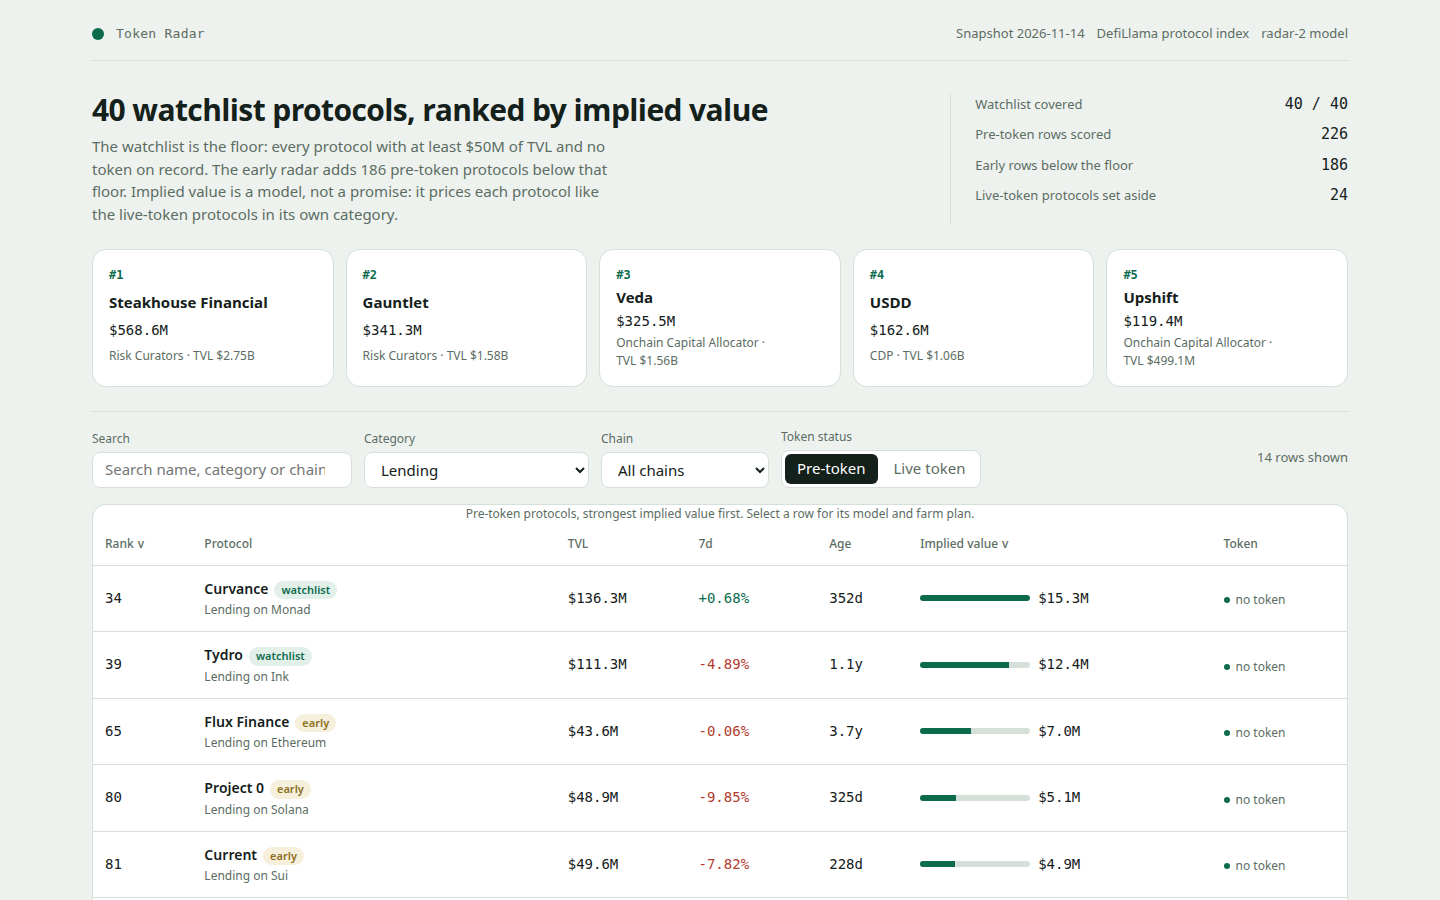
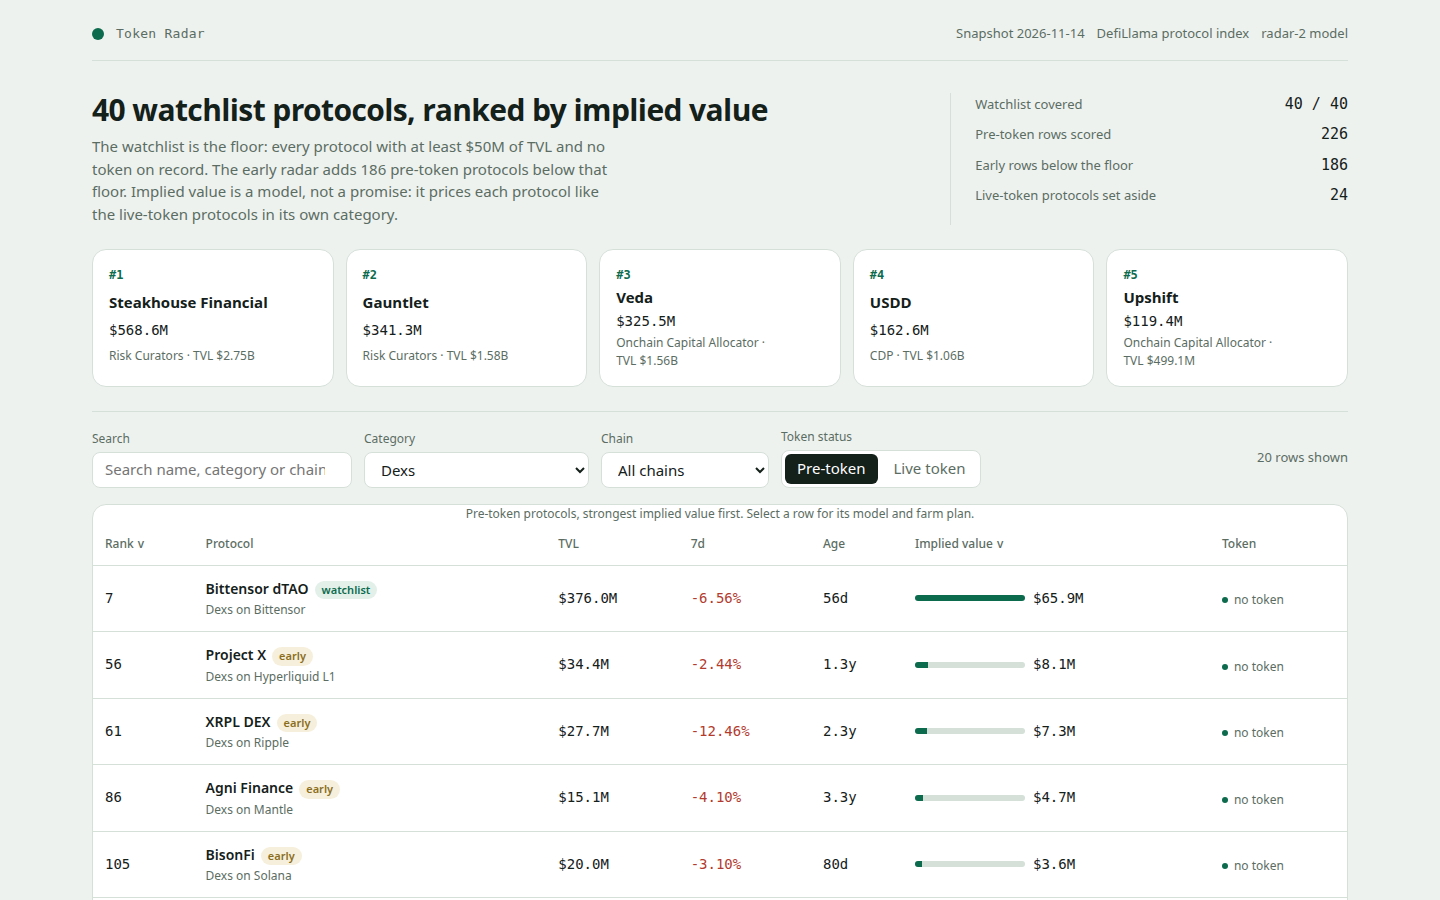
Add original methodology, score lab and movers panel; document design rationale
- README: Methodology section with worked example (Steakhouse Financial,
  arithmetic reproduces the board exactly) plus reproducing-the-board notes
- dashboard: Score Lab (pick a row, multiply its five factors live) and
  Movers panel (fastest risers/fallers by 7d TVL change, click to open detail)
- lib/model.ts: design rationale comments for the anchor, growth/maturity
  split, breadth cap, $1 floor and rankability rules
- screenshots retaken for the new dashboard; board.json and data.js unchanged

diff --git a/dashboard/app.js b/dashboard/app.js
@@ -7,7 +7,7 @@
   var DATA = window.RADAR;
   if (!DATA) return;
   var app = document.getElementById('board');
-  var state = { q: '', category: 'all', chain: 'all', tab: 'pre-token', sort: 'implied', dir: -1, selected: null };
+  var state = { q: '', category: 'all', chain: 'all', tab: 'pre-token', sort: 'implied', dir: -1, selected: null, scoreOpen: false, scoreSlug: null };
 
   var usd = new Intl.NumberFormat('en-US', { style: 'currency', currency: 'USD', maximumFractionDigits: 0 });
   function fmtUsd(n) {
@@ -367,6 +367,93 @@
     );
   }
 
+  // The score lab: a second, hands-on way to read the model. Pick any ranked protocol and the panel
+  // walks through its five factors one at a time, multiplying them in front of you, so the single
+  // implied-value number stops being a black box. Everything it shows comes from the row itself — the
+  // same rounded multipliers board.json carries — so the lab's product is the board's number.
+  function scoreFactorRow(label, detail, value) {
+    return el('div', { class: 'score-row' },
+      el('div', null, el('span', { text: label }), el('span', { class: 'sub', text: detail })),
+      el('b', { class: 'num', text: value })
+    );
+  }
+
+  function scoreLab() {
+    var toggle = el('button', {
+      type: 'button', class: 'score-toggle', 'aria-expanded': state.scoreOpen ? 'true' : 'false',
+      onclick: function () { state.scoreOpen = !state.scoreOpen; render(); }
+    }, state.scoreOpen ? 'Hide the score lab' : 'Open the score lab: multiply a row yourself');
+    var head = el('div', { class: 'score-head' },
+      el('h2', { text: 'Score lab: multiply a row yourself' }),
+      toggle
+    );
+    if (!state.scoreOpen) return el('section', { class: 'panel score' }, head);
+    var picked = DATA.rows.filter(function (r) { return r.slug === state.scoreSlug; })[0] || DATA.rows[0];
+    var select = el('select', { id: 'score-pick', 'aria-label': 'Pick a protocol to multiply' },
+      DATA.rows.map(function (r) {
+        return el('option', { value: r.slug, text: '#' + r.rank + ' ' + r.name, selected: r.slug === picked.slug ? 'selected' : null });
+      })
+    );
+    select.addEventListener('change', function () { state.scoreSlug = select.value; render(); });
+    var recomputed = impliedOf(picked);
+    var steps = el('div', { class: 'score-grid' },
+      scoreFactorRow('TVL', 'the size of the thing being priced', fmtUsd(picked.tvl_usd)),
+      scoreFactorRow('Category multiple', (picked.category || 'Other') + ' · ' + picked.comparables + ' live comparables' + (picked.comparables < 3 ? ' — borrows the global median' : ''), String(picked.category_multiple)),
+      scoreFactorRow('Growth multiplier', 'seven-day TVL change ' + fmtPct(picked.change_7d) + ', weighted 0.6', String(picked.growth_multiplier)),
+      scoreFactorRow('Maturity multiplier', 'listed ' + fmtAge(picked.age_days) + ' ago with no token on record', String(picked.maturity_multiplier)),
+      scoreFactorRow('Breadth multiplier', (picked.chains || []).length + ' chains, +2% per extra chain up to +10%', String(picked.breadth_multiplier)),
+      scoreFactorRow('Implied value', 'the board carries ' + fmtUsd(picked.implied_value_usd), fmtUsd(recomputed))
+    );
+    var notes = el('ul', { class: 'score-notes' },
+      el('li', { text: 'Category multiple is the only factor the protocol cannot move on its own — it is set by what the market pays its category.' }),
+      el('li', { text: 'Growth helps, but the 0.6 weight and the clamp keep one hot week from rewriting the score.' }),
+      el('li', { text: 'Maturity runs from 0.55 for a fresh listing to 1.00 after three years with no token.' }),
+      el('li', { text: 'Breadth adds 2% per extra chain and stops at five extra chains.' }),
+      el('li', { text: 'The floor: a row never prices below $1, so the board always ranks by a positive number.' })
+    );
+    var verdict = el('p', { class: 'score-verdict' },
+      recomputed === picked.implied_value_usd
+        ? 'The lab multiplies to ' + fmtUsd(recomputed) + ', exactly the number the board carries for ' + picked.name + '.'
+        : 'The lab multiplies to ' + fmtUsd(recomputed) + ', which differs from the board: the data beside this page would be stale.'
+    );
+    return el('section', { class: 'panel score' }, head,
+      el('p', { class: 'sub', text: 'One row, five factors, multiplied in front of you. The growth and maturity multipliers are rounded to four decimals, so the product lands exactly on the number the board carries.' }),
+      el('div', { class: 'field' }, el('label', { for: 'score-pick', text: 'Protocol' }), select),
+      steps,
+      notes,
+      verdict
+    );
+  }
+
+  // The movers: the week's fastest risers and fallers by seven-day TVL change. The board ranks by
+  // implied value, so a protocol can climb this list without climbing the board — momentum and size
+  // are different stories, and this panel tells the momentum one.
+  function moverRow(r) {
+    return el('li', {
+      tabindex: '0',
+      onclick: function () { openDetail(r.slug); },
+      onkeydown: function (e) { if (e.key === 'Enter' || e.key === ' ') { e.preventDefault(); openDetail(r.slug); } }
+    },
+      el('span', { class: 'num', text: '#' + r.rank }),
+      el('b', { text: r.name }),
+      el('span', { class: 'num ' + (r.change_7d >= 0 ? 'pos' : 'neg'), text: fmtPct(r.change_7d) })
+    );
+  }
+
+  function moversPanel() {
+    var withChange = DATA.rows.filter(function (r) { return r.change_7d !== null && isFinite(r.change_7d); });
+    var gainers = withChange.slice().sort(function (a, b) { return b.change_7d - a.change_7d; }).slice(0, 5);
+    var losers = withChange.slice().sort(function (a, b) { return a.change_7d - b.change_7d; }).slice(0, 5);
+    return el('section', { class: 'panel movers' },
+      el('h2', { text: 'Movers: the week in TVL' }),
+      el('p', { class: 'sub', text: 'The fastest risers and fallers by seven-day TVL change. Momentum is one factor of five — a protocol can top this list without topping the board. Select a mover to open its detail drawer.' }),
+      el('div', { class: 'movers-grid' },
+        el('div', null, el('h3', { text: 'Fastest risers' }), el('ol', { class: 'movers-list' }, gainers.map(moverRow))),
+        el('div', null, el('h3', { text: 'Fastest fallers' }), el('ol', { class: 'movers-list' }, losers.map(moverRow)))
+      )
+    );
+  }
+
   var dialog = el('dialog', { class: 'detail', id: 'detail', 'aria-labelledby': 'detail-title' });
   dialog.addEventListener('close', function () { state.selected = null; writeHash(); });
 
@@ -428,7 +515,11 @@
     shell.appendChild(top5());
     shell.appendChild(controls());
     shell.appendChild(state.tab === 'pre-token' ? boardTable() : liveTable());
-    if (state.tab === 'pre-token') shell.appendChild(modelPanel());
+    if (state.tab === 'pre-token') {
+      shell.appendChild(scoreLab());
+      shell.appendChild(moversPanel());
+      shell.appendChild(modelPanel());
+    }
     app.appendChild(shell);
     app.setAttribute('aria-busy', 'false');
     if (!dialog.isConnected) app.appendChild(dialog);

diff --git a/lib/model.ts b/lib/model.ts
@@ -190,7 +190,12 @@ export class SnapshotError extends Error {
 
 const DAY_MS = 86_400_000;
 
-/** The smallest implied value the model ever reports: a protocol never prices at zero or less. */
+/**
+ * The smallest implied value the model ever reports: a protocol never prices at zero or less.
+ * The floor is a ranking invariant, not a rounding nicety — the board orders rows by a positive
+ * integer, and a zero would tie every worthless row at the bottom while saying nothing about
+ * which of them is less worthless. One dollar keeps the order total and the arithmetic honest.
+ */
 const IMPLIED_MIN_USD = 1;
 
 /** The global multiple when the snapshot carries no live-token comparable at all. */
@@ -237,6 +242,12 @@ export function isComparable(p: SnapshotProtocol): boolean {
  * category. A category with at least `min_comparables` live protocols is priced at a blend of its own
  * median and the global median; a thinner category borrows the global median outright. Every multiple
  * is clamped, so a thin or wild category cannot set an absurd price.
+ *
+ * Why the median, and why per category: the market's verdict on a category is written in the prices
+ * of the protocols in it that already trade. A mean would let one outlier set the price; a median
+ * listens to the middle of the pack. And categories are priced apart because they sell different
+ * things — a lending market's dollar of TVL is not a bridge's dollar of TVL, and scoring them by
+ * one shared multiple would reward the category, not the protocol.
  */
 export function categoryMultiples(snapshot: Snapshot, model: ModelConstants = MODEL): { global: number; byCategory: Map<string, CategoryMultiple> } {
   const live = snapshot.protocols.filter(isComparable);
@@ -274,13 +285,26 @@ const round4 = (n: number): number => Math.round(n * 1e4) / 1e4;
  * single-chain protocol, plus `breadth_per_chain` per extra chain up to `breadth_max_chains` extra
  * chains, so the bonus tops out at 1 + breadth_per_chain x breadth_max_chains (1.10 under the
  * shipped constants). A protocol live on more chains reaches more farmers.
+ *
+ * Breadth is deliberately the weakest factor: it can add at most ten percent, while the multiple
+ * alone can move the price thirty-fold. That ordering is a choice — reach matters, but a protocol
+ * spread thin across twelve chains is not thirty times a focused one. The cap also stops a
+ * chain-count race from swamping the price the market actually sets.
  */
 export function breadthMultiplier(chains: string[], model: ModelConstants = MODEL): number {
   const extraChains = Math.min(Math.max(chains.length - 1, 0), model.breadth_max_chains);
   return round4(1 + model.breadth_per_chain * extraChains);
 }
 
-/** The four multipliers and the implied value one protocol gets under `model` and the market anchor. */
+/**
+ * The four multipliers and the implied value one protocol gets under `model` and the market anchor.
+ *
+ * Growth and maturity stay separate on purpose: they measure different things. Growth is momentum —
+ * what the last seven days did. Maturity is endurance — how long the protocol has kept running
+ * without a token. A young protocol can spike and an old one can stall; folding both into one
+ * number would hide which one moved the score. Keeping them apart also keeps the board readable:
+ * the dashboard can point at one factor and say why a row sits where it does.
+ */
 export function impliedValue(
   protocol: SnapshotProtocol,
   asOf: string,
@@ -306,7 +330,13 @@ export function impliedValue(
 /** DefiLlama's version-marker rule: a name ending in a release is a pool of another protocol. */
 const VERSIONED = /\s(V\d+(\.\d+)?|v\d+(\.\d+)?|\d+\.\d+)$/;
 
-/** Whether a protocol is one the board may rank: pre-token, not an exchange, not a versioned pool. */
+/**
+ * Whether a protocol is one the board may rank: pre-token, not an exchange, not a versioned pool.
+ * Exchanges are left out because their token is the business, not a launch to anticipate — scoring
+ * one would price the exchange against protocols it has nothing in common with. Versioned pools are
+ * left out because they are a slice of another protocol's TVL, and ranking the slice beside the
+ * whole would double-count the same locked value.
+ */
 export function isRankable(p: SnapshotProtocol): boolean {
   return isPreToken(p) && p.category !== 'CEX' && !VERSIONED.test(p.name);
 }
@@ -325,7 +355,13 @@ export interface BoardSummary {
 }
 
 /** The protocols the board ranks, strongest first, with ranks 1..n. The watchlist is the floor: every
- *  watchlist slug is ranked, and the early radar only adds rankable pre-token protocols below it. */
+ *  watchlist slug is ranked, and the early radar only adds rankable pre-token protocols below it.
+ *
+ * Coverage is a promise, not a preference: the watchlist is a floor, so every slug on it appears
+ * even if its TVL has slipped, and the early radar only ever adds rows below that floor. Nothing
+ * is dropped for looking weak — a weak watchlist row still ranks, at the rank its numbers earn.
+ * That is what makes the board auditable: anyone can take the snapshot, count the watchlist, and
+ * check that every one of those slugs is present before asking anything about the order. */
 export function buildBoard(snapshot: Snapshot, model: ModelConstants = MODEL): BoardRow[] {
   const anchor = categoryMultiples(snapshot, model);
   const index = bySlug(snapshot.protocols);
@@ -611,7 +647,13 @@ export function parseSnapshot(text: string): Snapshot {
   };
 }
 
-/** Why a board is not one the gate will take, or null: coverage, ranks, order, one shared implied value, and farm steps. */
+/**
+ * Why a board is not one the gate will take, or null: coverage, ranks, order, one shared implied
+ * value, and farm steps. The checks run from the most basic to the most specific — a board that
+ * misses a watchlist slug is refused before anyone looks at its numbers, because a ranking that
+ * silently drops rows is worse than a ranking that orders them badly. The shared-value check
+ * catches the degenerate case: if every row prices the same, the model has said nothing at all.
+ */
 export function boardIssue(board: BoardRow[], snapshot: Snapshot): string | null {
   const slugs = new Set(board.map((r) => r.slug));
   const missing = snapshot.watchlist.filter((s) => !slugs.has(s));

diff --git a/dashboard/app.css b/dashboard/app.css
@@ -156,11 +156,34 @@ tbody tr[data-selected="true"] { background: var(--accent-soft); }
 .steps b { display: block; font-weight: 500; }
 .cost { color: var(--muted); font-size: 12px; font-family: var(--font-num); }
 
+/* The score lab: one row multiplied in front of you. */
+.score { margin-top: var(--step-4); padding: var(--step-5); display: grid; gap: var(--step-3); }
+.score-head { display: flex; align-items: baseline; justify-content: space-between; gap: var(--step-4); flex-wrap: wrap; }
+.score-toggle { min-height: 36px; padding: 0 var(--step-4); border: 1px solid var(--border); border-radius: var(--radius-control); background: var(--surface); }
+.score-toggle:hover { border-color: var(--accent); }
+.score-grid { display: grid; gap: var(--step-2); border-top: 1px solid var(--border); padding-top: var(--step-3); }
+.score-row { display: flex; align-items: baseline; justify-content: space-between; gap: var(--step-4); }
+.score-row > div { display: grid; gap: 2px; min-width: 0; }
+.score-row .sub { overflow-wrap: anywhere; }
+.score-notes { margin: 0; padding-left: var(--step-5); display: grid; gap: var(--step-1); color: var(--muted); font-size: 13px; }
+.score-verdict { font-weight: 600; }
+.score select { min-height: 36px; padding: 0 var(--step-3); border: 1px solid var(--border); border-radius: var(--radius-control); background: var(--surface); }
+
+/* The movers: the week's fastest risers and fallers. */
+.movers { margin-top: var(--step-4); padding: var(--step-5); display: grid; gap: var(--step-3); }
+.movers-grid { display: grid; grid-template-columns: 1fr 1fr; gap: var(--step-5); }
+.movers-list { margin: 0; padding-left: var(--step-5); display: grid; gap: var(--step-2); }
+.movers-list li { display: flex; align-items: baseline; gap: var(--step-3); cursor: pointer; border-radius: var(--radius-control); }
+.movers-list li:hover { background: var(--accent-soft); }
+.movers-list li b { font-weight: 600; overflow-wrap: anywhere; }
+.movers-list li .num:last-child { margin-left: auto; }
+
 @media (max-width: 900px) {
   .shell { padding: var(--step-4); }
   .lede { grid-template-columns: 1fr; gap: var(--step-4); }
   .facts { border-left: 0; border-top: 1px solid var(--border); padding-left: 0; padding-top: var(--step-4); }
   .top5 { grid-template-columns: repeat(2, minmax(0, 1fr)); }
+  .movers-grid { grid-template-columns: 1fr; }
   .field input { min-width: 0; width: 100%; }
 }
 @media (prefers-reduced-motion: reduce) {

diff --git a/README.md b/README.md
@@ -19,6 +19,99 @@ Every protocol on the snapshot's watchlist (TVL ≥ $50M, no token on record in 
 
 Each row also carries a 7-step farm plan derived from the protocol's own record (category, main chain, TVL, age): a fresh wallet, the bridge onto its chain with chain-aware gas costs, the category's action, a weekly qualifying action, a hold window, a claim check, and a farm log. Live-token protocols are set aside with their market caps shown — the market's own value, not a model.
 
+## Methodology
+
+The board is a yardstick, not a forecast. It answers one question: if this protocol launched a
+token tomorrow and the market priced it the way it already prices the live-token protocols in its
+own category, what would that token be worth? Nothing in the score says a token is coming, when
+it would arrive, or what it would trade at on day one. It is a way to compare 226 protocols on
+the same footing, using only the snapshot's own figures.
+
+### The five inputs
+
+Every row is the product of five numbers, all taken from the snapshot:
+
+- **TVL** — the protocol's total value locked, in dollars. This is the size of the thing being priced.
+- **Category multiple** — what the market already pays per dollar of TVL for protocols in the
+  same category: the median market-cap/TVL of the category's live-token protocols. A category
+  with at least three live comparables is priced at a 75/25 blend of its own median and the
+  global median; a thinner category borrows the global median outright. Every multiple is
+  clamped to 0.05–1.50, so no thin or wild category can set an absurd price.
+- **Growth multiplier** — the protocol's seven-day TVL change, clamped to −50…+150% and weighted
+  0.6, so a hot week lifts the score but cannot double it on its own.
+- **Maturity multiplier** — how long the protocol has run with no token on record, from 0.55 for
+  a brand-new listing to 1.00 after three years. Time in the wild without launching is the
+  closest thing a pre-token protocol has to a track record.
+- **Breadth multiplier** — +2% per extra chain, up to +10%. Each additional chain reaches more
+  farmers, but the tenth chain adds far less than the second, so the bonus is capped.
+
+`implied = round(TVL × category_multiple × growth_multiplier × maturity_multiplier × breadth_multiplier)`,
+with a floor of $1: no ranked row ever prices at zero. Every multiplier is rounded to four
+decimals before it multiplies, so anyone can reproduce the board's number exactly from the
+figures the dashboard prints.
+
+### Why the anchor is the category, not the market
+
+A lending protocol and a bridge do not sell the same thing, so they should not be priced by the
+same yardstick. The market already tells us what it pays per dollar of TVL in each category —
+the live-token protocols are that verdict, written in real money. Anchoring to the category
+median keeps the comparison honest: a protocol is measured against its own kind, not against
+the hottest category of the month. The 75/25 blend with the global median is a hedge against
+thin categories: when only a handful of protocols trade in a category, their median is noisy,
+and the global median steadies it. The clamp exists for the same reason — no thin or wild
+category may set an absurd price.
+
+### A worked example: Steakhouse Financial
+
+Steakhouse Financial sits at rank 1 with an implied value of $568,603,850. Its category, Risk
+Curators, has only one live-token comparable, so it borrows the global median of 0.246. Its
+seven-day TVL change is −2.1935%, giving a growth multiplier of 1 + (−2.1935 / 100) × 0.6 =
+0.9868. It has been listed for 543 days, so its maturity multiplier is 0.55 + (543 / 1095) ×
+0.45 = 0.7732. It runs on 11 chains, so its breadth multiplier is 1 + 0.02 × min(10, 5) = 1.10.
+Putting it together:
+
+`2,753,981,495 × 0.246 × 0.9868 × 0.7732 × 1.10 = 568,603,850`
+
+The same arithmetic reproduces every row on the board. The next two rows are priced by the same
+global anchor — Gauntlet at $341,286,097 and Veda at $325,527,040 — because their categories are
+thin too. That is the model's honest admission: where a category has too few live protocols to
+price itself, the whole market's median does the pricing.
+
+### How to read a farm plan
+
+Each row carries a seven-step plan built from the protocol's own record — its category, its main
+chain, its TVL and its age. The steps are: a fresh wallet, the bridge onto the chain, the
+category's core action, a weekly qualifying action, a hold window, a claim check, and a farm
+log. Capital scales with TVL ($50–$250) and the hold window with age (30–60 days), so a young
+protocol gets a longer qualifying window than an old one. The plan is a checklist, not advice:
+gas costs are the chain's own, and the claim step is to use only the link the protocol itself
+publishes.
+
+### What the model cannot see
+
+The snapshot is a single day. TVL can move fast, and it can be inflated. The model cannot see a
+team, an audit, a token design, or whether a protocol even intends to launch — and it does not
+try. A high implied value means the protocol is large and its category is well priced; it does
+not mean a token is coming, and it is not a price target. Run the program twice on the same
+snapshot and the board is byte-identical: the model is deterministic, so any disagreement is
+about the inputs, not the arithmetic.
+
+### Reproducing the board
+
+The program is deterministic: the same snapshot always produces the same board, byte for byte.
+To check the numbers in this repository, run the scorer against the snapshot the bounty shipped
+and open the dashboard it writes — the top rows should match the board shown here exactly:
+
+```sh
+mkdir -p out && MAKEFUN_OUTPUT_DIR=out node main.ts --input <path-to-snapshot.json>
+```
+
+Every multiplier the model uses is printed in the dashboard — the category table under "How
+implied value is computed", the per-row equation in each detail drawer, and the Score Lab's
+step-by-step multiplication — so the worked example above can be repeated for any row, not just
+the first. If a recomputed row disagrees with the board, the data beside the page is stale; the
+model itself has no randomness to hide behind.
+
 ## Run it
 
 ```sh
